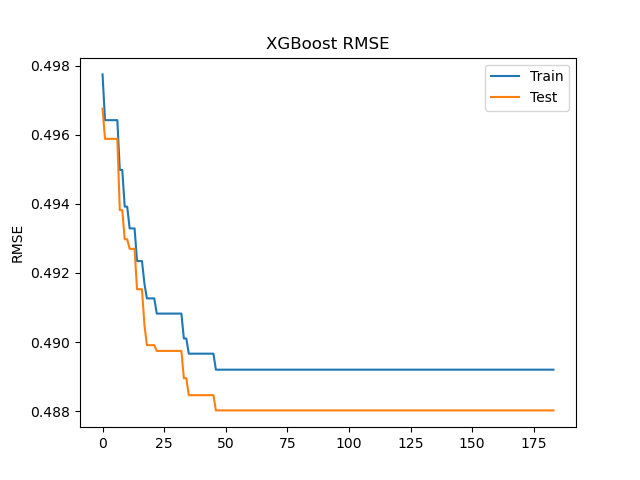
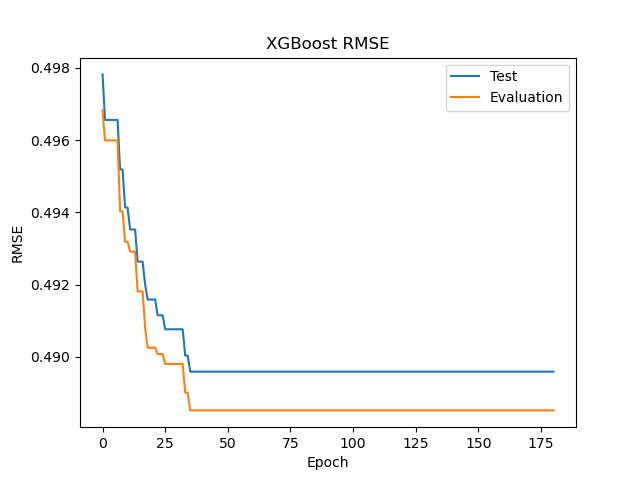
Final push. Project Done!

diff --git a/model_training/logistic_regression.py b/model_training/logistic_regression.py
@@ -1,6 +1,6 @@
-import xgboost as xg
 from sklearn.model_selection import train_test_split
-from sklearn.metrics import accuracy_score
+from sklearn.metrics import accuracy_score, make_scorer
+from sklearn.model_selection import learning_curve
 from sklearn.linear_model import LogisticRegression
 import numpy as np
 import matplotlib.pyplot as plt
@@ -23,8 +23,31 @@ if __name__=="__main__":
     X_train, X_test, y_train, y_test = train_test_split(X, y, test_size=0.2, random_state=42)
 
     print(X_train)
+    
+    #Define model
+    model = LogisticRegression(max_iter = 10000)
 
-    model = LogisticRegression(max_iter = 1000)
+    #Create scorer
+    scorer = make_scorer(accuracy_score)
+
+    train_sizes, train_scores, test_scores = learning_curve(
+    model, X_train, y_train, cv=5, scoring=scorer, n_jobs=-1)
+
+    # Calculate mean and standard deviation of training set scores
+    train_scores_mean = np.mean(train_scores, axis=1)
+    train_scores_std = np.std(train_scores, axis=1)
+
+    # Calculate mean and standard deviation of test set scores
+    test_scores_mean = np.mean(test_scores, axis=1)
+    test_scores_std = np.std(test_scores, axis=1)
+
+    plt.figure(figsize=(10, 6))
+    plt.title("Learning Curve")
+    plt.xlabel("Training examples")
+    plt.ylabel("Accuracy")
+    plt.plot(train_sizes, train_scores_mean, "o-", color="r", label="Train")
+    plt.plot(train_sizes, test_scores_mean, "o-", color="g", label="Evaluation")
+    plt.legend(loc="best")
 
     model.fit(X_train, y_train)
 

diff --git a/model_training/xgboost_regresion_model.py b/model_training/xgboost_regresion_model.py
@@ -1,9 +1,6 @@
 import xgboost as xg
 from sklearn.model_selection import train_test_split
-from sklearn.metrics import accuracy_score, mean_squared_error
-#from sklearn.model_selection import cross_val_score
-#from sklearn.model_selection import RepeatedKFold
-import numpy as np
+from sklearn.metrics import mean_squared_error
 import matplotlib.pyplot as plt
 from hyperopt import STATUS_OK, Trials, fmin, hp, tpe
 import pandas as pd
@@ -87,31 +84,20 @@ if __name__=="__main__":
     results = model.evals_result()
     epochs = len(results['validation_0']['error'])
 
-
     y_predicted = model.predict(X_test)
 
     rmse = mean_squared_error(y_test, y_predicted, squared=False)
     print(f'RMSE Between predicted y and test y is {rmse}')
 
     x_axis = range(0, epochs)
-    # plot log loss
-    fig, ax = plt.subplots()
-    ax.plot(x_axis, results['validation_0']['logloss'], label='Train')
-    ax.plot(x_axis, results['validation_1']['logloss'], label='Test')
-    ax.legend()
-    plt.ylabel('Log Loss')
-    plt.title('XGBoost Log Loss')
-
+  
     fig, ax = plt.subplots()
     ax.plot(x_axis, results['validation_0']['rmse'], label='Train')
-    ax.plot(x_axis, results['validation_1']['rmse'], label='Test')
+    ax.plot(x_axis, results['validation_1']['rmse'], label='Evaluation')
     ax.legend()
     plt.ylabel('RMSE')
+    plt.xlabel('Epoch')
     plt.title('XGBoost RMSE')
-
-    #Now try cross validation
-
     
-
 
     plt.show()

diff --git a/model_training/xgboost_classifier_model.py b/model_training/xgboost_classifier_model.py
@@ -87,23 +87,14 @@ if __name__=="__main__":
     print(f'Accuracy Between predicted y and test y is {accuracy}')
 
     x_axis = range(0, epochs)
-    # plot log loss
-    fig, ax = plt.subplots()
-    ax.plot(x_axis, results['validation_0']['logloss'], label='Train')
-    ax.plot(x_axis, results['validation_1']['logloss'], label='Test')
-    ax.legend()
-    plt.ylabel('Log Loss')
-    plt.title('XGBoost Log Loss')
 
     fig, ax = plt.subplots()
-    ax.plot(x_axis, results['validation_0']['rmse'], label='Train')
-    ax.plot(x_axis, results['validation_1']['rmse'], label='Test')
+    ax.plot(x_axis, results['validation_0']['rmse'], label='Test')
+    ax.plot(x_axis, results['validation_1']['rmse'], label='Evaluation')
     ax.legend()
     plt.ylabel('RMSE')
+    plt.xlabel('Epoch')
     plt.title('XGBoost RMSE')
-
-    #Now try cross validation
-
     
 
 

diff --git a/model_training/naive_model.py b/model_training/naive_model.py
@@ -1,5 +1,4 @@
 import numpy as np
-import matplotlib.pyplot as plt
 from sklearn.model_selection import train_test_split
 import pandas as pd
 from sklearn.metrics import mean_squared_error
